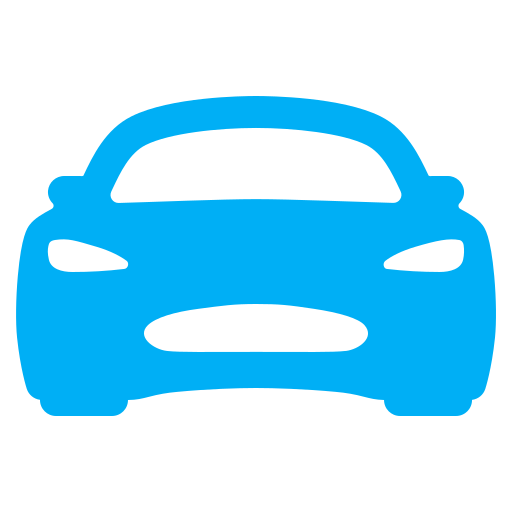
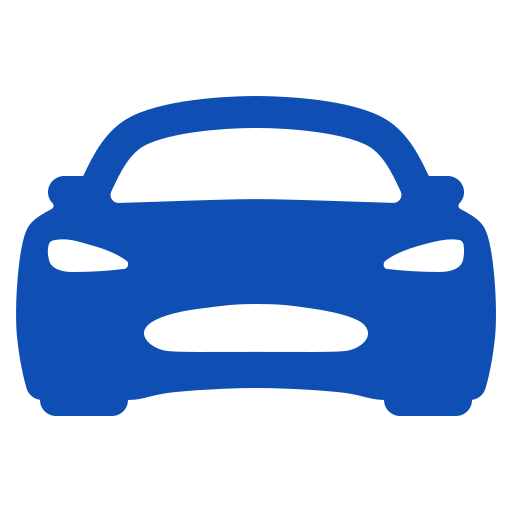
updated theme

diff --git a/client/src/components/PublishRidePage/Time.jsx b/client/src/components/PublishRidePage/Time.jsx
@@ -10,27 +10,35 @@ const Time = () => {
 
   return (
     <div>
-        <div className="pt-[5em] flex flex-col items-center">
-        <h2 className='text-4xl text-blue-950 font-semibold p-4 mb-2'>At what time will you pick passengers up?</h2>
-        <div className='mb-1'>
-            <TimeComponent />
+      <div className='pt-[5em] pb-[2em] p-[7em]'>
+        <div className=' grid grid-cols-2 grid-rows-2'>
+        <div className=" flex justify-center items-center">
+          <h2 className='text-2xl w-[50%] text-blue-950 font-semibold p-4 mb-2'>At what time will you pick passengers up?</h2>
+          <div className='mb-1'>
+              <TimeComponent />
+          </div>
         </div>
-        <h2 className='text-4xl text-blue-950 font-semibold p-4 mb-2'>So how many passengers can you take?</h2>
-        <input type="text" name='passengerLimit' value={passengerLimit} className='bg-[#EDEDED] focus:outline-[#00AFF5] h-[1.8em] w-[10em] text-3xl p-4 rounded-xl mb-2' onChange={(event)=>{
-          let value=event.target.value;
-          setPassengerLimit(value);
-        }}/>
-        <h2 className='text-4xl text-blue-950 font-semibold p-4 mb-2'>Set your price per seat</h2>
-        <input type="text" name='passengerLimit' value={travelCost} className=' bg-[#EDEDED] focus:outline-[#00AFF5] h-[1.8em] w-[10em] text-3xl p-4 rounded-xl mb-8' onChange={(event)=>{
-          let value=event.target.value;
-          setTravelCost(value);
-        }}/>
-        <button className='w-[8em] h-[3em] mb-[2em] bg-[#00AFF5] text-white flex justify-center items-center rounded-lg font-semibold'>Continue</button>
+        <div className=' flex justify-center items-center'>
+          <h2 className='text-2xl w-[50%] text-blue-950 font-semibold p-4 mb-2'>So how many passengers can you take?</h2>
+          <input type="text" name='passengerLimit' value={passengerLimit} className='bg-[#EDEDED] focus:outline-[#0F4FB4] h-[1.8em] w-[5em] text-3xl p-4 rounded-xl mb-2' onChange={(event)=>{
+            let value=event.target.value;
+            setPassengerLimit(value);
+          }}/>
+        </div>
+          <div className='flex flex-col items-center col-span-2'>
+            <h2 className='text-2xl text-blue-950 font-semibold p-4'>Set your price per seat</h2>
+            <input type="text" name='passengerLimit' value={travelCost} className=' bg-[#EDEDED] focus:outline-[#0F4FB4] h-[1.8em] w-[5em] text-3xl p-4 rounded-xl mb-3' onChange={(event)=>{
+              let value=event.target.value;
+              setTravelCost(value);
+            }}/>
+            <button className='w-[8em] h-[3em] mb-[2em] bg-[#0F4FB4] text-white flex justify-center items-center rounded-xl font-semibold'>Continue</button>
+          </div>
+      </div>
+        
     </div>
-    
-    <Footer />
+    <Footer/>
     </div>
   )
 }
 
-export default Time
+export default Time;

diff --git a/client/src/components/Footer/Footer.jsx b/client/src/components/Footer/Footer.jsx
@@ -11,19 +11,19 @@ const Footer = () => {
       <div className='bg-[#EDEDED] flex justify-center gap-10 p-[10em] pt-[3em] pb-[3em]'>
         <div className='flex flex-col w-[40%]'>
             <h1 className='text-2xl mb-8'>How to travel with BlaBlaCar</h1>
-            <p className='mb-8 hover:text-[#008EC2] cursor-pointer'>All carpool routes</p>
-            <p className='mb-8 hover:text-[#008EC2] cursor-pointer'>All carpool destinations</p>
+            <p className='mb-8 hover:text-[#0F4FB4] cursor-pointer'>All carpool routes</p>
+            <p className='mb-8 hover:text-[#0F4FB4] cursor-pointer'>All carpool destinations</p>
         </div>
         <div className='flex flex-col w-[40%]'>
             <h1 className='text-2xl mb-8'>Top carpool routes</h1>
         </div>
         <div className='flex flex-col w-[auto]'>
             <h1 className='text-2xl mb-8'>About</h1>
-            <p className='mb-8 hover:text-[#008EC2] cursor-pointer'>About Us</p>
-            <p className='mb-8 hover:text-[#008EC2] cursor-pointer'>Help Centre</p>
-            <p className='mb-14 hover:text-[#008EC2] cursor-pointer'>We're Hiring!</p>
-            <button className='text-[#00AFF5] font-semibold bg-white w-[15em] h-12 rounded-3xl mb-5'>Language-English</button>
-            <p><RiInstagramFill className='text-[#00AFF5] text-5xl cursor-pointer'/></p>
+            <p className='mb-8 hover:text-[#0F4FB4] cursor-pointer'>About Us</p>
+            <p className='mb-8 hover:text-[#0F4FB4] cursor-pointer'>Help Centre</p>
+            <p className='mb-14 hover:text-[#0F4FB4] cursor-pointer'>We're Hiring!</p>
+            <button className='text-[#0F4FB4] font-semibold bg-white w-[15em] h-12 rounded-3xl mb-5'>Language-English</button>
+            <p><RiInstagramFill className='text-[#0F4FB4] text-5xl cursor-pointer'/></p>
         </div>
       </div>
       <div className='h-[5em] flex items-center justify-between pr-[15em] pl-[13em] text-gray-500'>
@@ -37,7 +37,7 @@ const Footer = () => {
             <p className='p-2 hover:text-[#008EC2] cursor-pointer'>Cookie settings</p>
         </div>
         <div className='flex'>
-            <p className='flex items-center justify-between text-lg  pr-3 pl-3'><IoCarSport className='text-[#00AFF5] text-4xl' />Pooool, 2024 &#169; </p>
+            <p className='flex items-center justify-between text-lg  pr-3 pl-3'><IoCarSport className='text-[#0F4FB4] text-4xl' />Pooool, 2024 &#169; </p>
         </div>
       </div>
     </div>

diff --git a/client/src/components/Header/Header.jsx b/client/src/components/Header/Header.jsx
@@ -28,18 +28,18 @@ const Header = () => {
       <div className='flex'>
         <p className='flex items-center justify-between text-3xl font-semibold pr-3 pl-3 cursor-pointer' onClick={()=>{
             navigate("/");
-        }}><IoCarSport className='text-[#00AFF5] text-5xl' />Pooool</p>
+        }}><IoCarSport className='text-[#0F4FB4] text-5xl' />Pooool</p>
         {/* <p className='flex items-center text-[#00AFF5] hover:text-[#008EC2] font-semibold pr-3 pl-3 cursor-pointer'>Carpool</p> */}
       </div>
       <div className='flex'>
-        <p className='flex items-center justify-between text-[#00AFF5] hover:text-[#008EC2] font-semibold w-[7em] pr-3 pl-3 mr-1 cursor-pointer' onClick={()=>{
+        <p className='flex items-center justify-between text-[#0F4FB4] hover:text-[#008EC2] font-semibold w-[7em] pr-3 pl-3 mr-1 cursor-pointer' onClick={()=>{
           navigate("/search");
         }}><CiSearch className='text-3xl' />Search</p>
-        <p className='flex items-center justify-between text-[#00AFF5] hover:text-[#008EC2] font-semibold w-[10em] pr-3 pl-3 mr-1 cursor-pointer' onClick={()=>{
+        <p className='flex items-center justify-between text-[#0F4FB4] hover:text-[#008EC2] font-semibold w-[10em] pr-3 pl-3 mr-1 cursor-pointer' onClick={()=>{
           navigate("/publishRide");
         }}><IoIosAddCircleOutline className='text-2xl' />Publish a ride</p>
         <div className='flex flex-col'>
-            <div className='flex items-center justify-between text-[#00AFF5] hover:text-[#008EC2] font-semibold w-[6em] pr-3 pl-3 cursor-pointer relative'><FaUserCircle className='text-5xl ' onClick={handleClick} />{log?<IoIosArrowUp className='text-2xl text-gray-400' onClick={handleClick} />:<IoIosArrowDown className='text-2xl text-gray-400' onClick={handleClick} />}
+            <div className='flex items-center justify-between text-[#0F4FB4] hover:text-[#008EC2] font-semibold w-[6em] pr-3 pl-3 cursor-pointer relative'><FaUserCircle className='text-5xl ' onClick={handleClick} />{log?<IoIosArrowUp className='text-2xl text-gray-400' onClick={handleClick} />:<IoIosArrowDown className='text-2xl text-gray-400' onClick={handleClick} />}
             </div>
             {isVissible&&(
               <div className='bg-white text-gray-900 w-[26em] absolute bottom-[-7em] right-2'>

diff --git a/client/src/components/HomePage/ReportScamsHome.jsx b/client/src/components/HomePage/ReportScamsHome.jsx
@@ -4,14 +4,14 @@ import { useNavigate } from 'react-router-dom';
 const ReportScamsHome = () => {
     const navigate=useNavigate();
     return (
-        <div className='h-[25em] bg-[#00AFF5] p-[10em] pt-[3em] pb-[3em] grid grid-cols-2 '>
+        <div className='h-[25em] bg-[#0F4FB4] p-[10em] pt-[3em] pb-[3em] grid grid-cols-2 '>
             <div className='flex items-center justify-center'>
               <img className='h-[100%] w-[100%] rounded-2xl' src="https://cdni.iconscout.com/illustration/premium/thumb/complaint-resolution-specialist-handling-customer-complaints-and-working-to-resolve-them-illustration-download-in-svg-png-gif-file-formats--support-pack-services-illustrations-7328703.png?f=webp" alt="" />
             </div>
             <div className='p-5 flex flex-col items-center justify-center'>
               <h1 className='text-3xl font-semibold text-white mb-3'>Help us keep you safe from scams</h1>
               <p className='text-white mb-4'>At Pooool, we're working hard to make our platform as secure as it can be. But when scams do happen, we want you to know exactly how to avoid and report them. Follow our tips to help us keep you safe.</p>
-              <button className='text-[#00AFF5] font-semibold bg-white w-[8em] h-12 rounded-3xl mb-5' 
+              <button className='text-[#0F4FB4] font-semibold bg-white w-[8em] h-12 rounded-3xl mb-5' 
               onClick={(event)=>{
                   event.preventDefault();
                   navigate("/safeFromScams")

diff --git a/client/src/components/PublishRidePage/Date.jsx b/client/src/components/PublishRidePage/Date.jsx
@@ -29,7 +29,7 @@ const RideDate = () => {
                 <div className="flex justify-between items-center mb-4">
                     <button
                         onClick={decreaseMonth}
-                        className="text-blue-500 text-2xl font-semibold hover:text-blue-700"
+                        className="text-[#0F4FB4] text-2xl font-semibold hover:text-blue-700"
                     >
                         <FaAnglesLeft />
                     </button>
@@ -38,7 +38,7 @@ const RideDate = () => {
                     </span>
                     <button
                         onClick={increaseMonth}
-                        className="text-blue-500 text-2xl font-semibold hover:text-blue-700"
+                        className="text-[#0F4FB4] text-2xl font-semibold hover:text-blue-700"
                     >
                     <FaAnglesRight />
                     </button>

diff --git a/client/src/components/SearchPage/AvailableRidesComponent.jsx b/client/src/components/SearchPage/AvailableRidesComponent.jsx
@@ -30,11 +30,11 @@ const AvailableRidesComponent = ({startLocName,endLocName,pickupLoc,dropLoc,pric
         <div className='flex p-8 pt-4 pb-4 items-center justify-between text-gray-500 '>
             <div className='flex items-center'>
                 <IoCarSport className='text-3xl  mr-8 ' />
-                <FaUserCircle className='text-4xl text-[#00AFF5] mr-3' />
+                <FaUserCircle className='text-4xl text-[#0F4FB4] mr-3' />
                 <span className='font-semibold'>{driverName}</span>
             </div>
             <div className='flex items-center'>
-                <button className='w-[5em] h-[2em] font-semibold text-lg text-white bg-[#00AFF5] rounded-3xl'>Book</button>
+                <button className='w-[5em] h-[2em] font-semibold text-lg text-white bg-[#0F4FB4] rounded-3xl'>Book</button>
             </div>
         </div>
     </div>

diff --git a/client/src/components/PublishRidePage/PublishRideComponent.jsx b/client/src/components/PublishRidePage/PublishRideComponent.jsx
@@ -23,7 +23,7 @@ const PublishRideComponent = ({title,setUp,set,to}) => {
           <h1 className='text-4xl text-blue-950 font-semibold p-4'>{title}</h1>
         </div>
         <div className='p-3 flex justify-center items-center'>
-          <input className='w-[65%] focus:outline-[#00AFF5] h-[3em] rounded-xl p-3 bg-[#EDEDED]' type="text" placeholder='Enter the full address' name='driverPickUpLoc' value={set} onChange={(event)=>{
+          <input className='w-[65%] focus:outline-[#0F4FB4] h-[3em] rounded-xl p-3 bg-[#EDEDED]' type="text" placeholder='Enter the full address' name='driverPickUpLoc' value={set} onChange={(event)=>{
                         let value=event.target.value;
                         setUp(value);
                         AutoComplete(value);

diff --git a/client/src/components/SafeFromScamsPage/SafeFromScams.jsx b/client/src/components/SafeFromScamsPage/SafeFromScams.jsx
@@ -8,7 +8,7 @@ import { IoCarSport } from "react-icons/io5";
 const SafeFromScams = () => {
   return (
     <div className='pt-[4.5em]'>
-        <section className="h-[25em] bg-[#00AFF5] p-[7em] pt-[2em] pb-[3em] grid grid-cols-[6fr_5fr]">
+        <section className="h-[25em] bg-[#0F4FB4] p-[7em] pt-[2em] pb-[3em] grid grid-cols-[6fr_5fr]">
           <div className='flex justify-center items-center'>
             <img className='h-[90%] w-[90%] rounded-2xl' src="https://cdni.iconscout.com/illustration/premium/thumb/complaint-resolution-specialist-handling-customer-complaints-and-working-to-resolve-them-illustration-download-in-svg-png-gif-file-formats--support-pack-services-illustrations-7328703.png?f=webp" alt="" />
           </div>

diff --git a/client/src/components/HomePage/WhereToDriveHome.jsx b/client/src/components/HomePage/WhereToDriveHome.jsx
@@ -8,7 +8,7 @@ const WhereToDriveHome = () => {
             <div className='p-5 flex flex-col justify-center'>
               <h1 className='text-3xl font-semibold text-gray-800 mb-3'>Where do you want to drive to?</h1>
               <p className='text-gray-500 mb-4'>Let's make this your least expensive journey ever.</p>
-              <button className='text-white font-semibold bg-[#00AFF5] w-[9em] h-12 rounded-3xl mb-5' onClick={(event)=>{
+              <button className='text-white font-semibold bg-[#0F4FB4] w-[9em] h-12 rounded-3xl mb-5' onClick={(event)=>{
                 event.preventDefault();
                 navigate("/publishRide");
               }}>Offer a ride</button>

diff --git a/client/src/components/SearchPage/SearchFormComponent.jsx b/client/src/components/SearchPage/SearchFormComponent.jsx
@@ -4,7 +4,7 @@ const SearchFormComponent = ({Component,label,value}) => {
   return (
     <div className='flex items-center pr-8 justify-between hover:bg-[#EDEDED] rounded-lg'>
         <div className='flex p-4 text-md'>
-                <input className='w-[1.5em] h-[1.5em] mr-6 text-[#00AFF5] ' id={value} type="radio" name='sort' value={value} />
+                <input className='w-[1.5em] h-[1.5em] mr-6 text-[#0F4FB4] ' id={value} type="radio" name='sort' value={value} />
                 <label className='font-semibold text-blue-950' htmlFor={value}>{label}</label>
         </div>
         <Component className='text-2xl  text-gray-500'/>

diff --git a/client/src/components/SearchPage/SortSearchComponent.jsx b/client/src/components/SearchPage/SortSearchComponent.jsx
@@ -12,7 +12,7 @@ const SortSearchComponent = () => {
         <form action="" className='flex flex-col'> 
             <div className='flex justify-between p-3 pt-8 font-semibold'>
                 <h1 className='text-xl '>Sort by</h1>
-                <button type='reset' className='text-md text-[#00AFF5]'>Clear all</button>
+                <button type='reset' className='text-md text-[#0F4FB4]'>Clear all</button>
             </div>
             <SearchFormComponent label="Earliest departure" value="departure" Component={IoIosTimer} />
             <SearchFormComponent label="Lowest price" value="price" Component={FaIndianRupeeSign} />

diff --git a/client/src/components/HomePage/TitleHomeComponent.jsx b/client/src/components/HomePage/TitleHomeComponent.jsx
@@ -96,7 +96,7 @@ const TitleHomeComponent = () => {
                        const count=event.target.value;
                        setPassengerCount(count);
                     }} /></div>
-                    <div><button className=' w-full h-[100%] rounded-r-2xl bg-[#00AFF5] text-white font-semibold' onClick={(event)=>{
+                    <div><button className=' w-full h-[100%] rounded-r-2xl bg-[#0F4FB4] text-white font-semibold' onClick={(event)=>{
                             event.preventDefault();
                             navigate("/search")
                     }} >Search</button></div>                  
